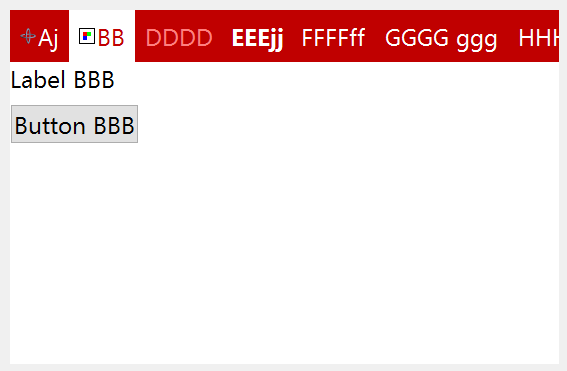
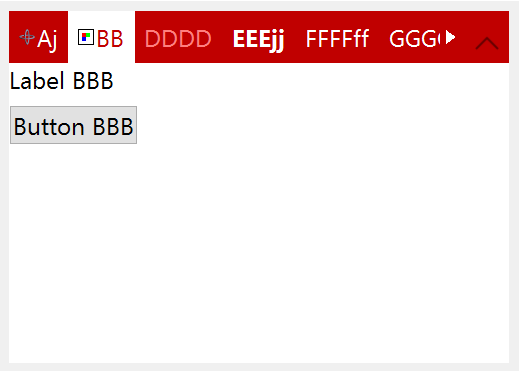
expand button final

Changed region(s): [[0.0, 0.0296, 0.9865, 0.2372], [0.0, 0.2668, 0.2775, 0.3854]]

diff --git a/html/en/elem/iupflattabs.html b/html/en/elem/iupflattabs.html
@@ -188,7 +188,7 @@ Just like the tabs they do not affect natural width. But they also don't affect
 the tabs title height, if button title or image are larger than the tabs title 
 height they will be cropped.</p>
 <p><strong>EXTRATITLE</strong><em><strong>id</strong></em>: text of the 
-respective button</p>
+respective button.</p>
 <p><strong>EXTRAACTIVE</strong><em><strong>id</strong></em>: active state of the 
 button. Can be Yes or No. When not defined works as &quot;Yes&quot;.</p>
 <p><strong>EXTRAFORECOLOR</strong><em><strong>id</strong></em>: text color of 
@@ -217,6 +217,15 @@ EXTRAIMAGE<em>id</em> when in inactive
 state. If not defined EXTRAIMAGE<em>id</em> is used and its colors will be 
 replaced by a modified version creating the disabled effect.</p>
 <p><strong>EXTRATIP<em>id</em></strong>: TIP of the button.</p>
+<h4>Expand Button Attributes (<font SIZE="3">non inheritable</font>) (since 3.22)</h4>
+<p><strong>EXPANDBUTTON</strong>: uses the next free extra button to configure 
+an expand button. The button allows to dynamically expand and collapse the tabs 
+contents. When collapsed a click on a tab causes that tab to be temporarily 
+expanded until it looses the focus.</p>
+<p><strong>EXPANDBUTTONPOS</strong> (read-only): position of the expand button 
+in the extra buttons.</p>
+<p><strong>EXPANDBUTTONSTATE</strong>: The expand button is on expand state. Can 
+be Yes or No. Default: Yes.</p>
 <h4>Current Tab (<font SIZE="3">non inheritable</font>)</h4>
 <p><strong>VALUE</strong>: Changes the 
 current tab by its name. The value passed must be the name of one of the elements 
@@ -389,16 +398,17 @@ IupSetAttribute(ih, &quot;TABACTIVE3&quot;, &quot;NO&quot;);
 IupSetAttribute(ih, &quot;SHOWCLOSE&quot;, &quot;Yes&quot;);
 IupSetAttribute(ih, &quot;TABFONTSTYLE4&quot;, &quot;Bold&quot;);</pre>
 <p class="auto-style2">
-<img height="421" src="images/iupflattabs1.png" width="582"></p>
+<img src="images/iupflattabs1.png"></p>
 <pre> IupSetAttribute(ih, &quot;FORECOLOR&quot;, &quot;192 0 0&quot;);
 IupSetAttribute(ih, &quot;TABSBACKCOLOR&quot;, &quot;192 0 0&quot;);
 IupSetAttribute(ih, &quot;HIGHCOLOR&quot;, &quot;255 128 128&quot;);
 IupSetAttribute(ih, &quot;CLOSEHIGHCOLOR&quot;, &quot;255 128 128&quot;);
 IupSetAttribute(ih, &quot;TABSFORECOLOR&quot;, &quot;255 255 255&quot;);
 IupSetAttribute(ih, &quot;SHOWLINES&quot;, &quot;NO&quot;);
-IupSetAttribute(ih, &quot;SHOWCLOSE&quot;, &quot;NO&quot;);</pre>
+IupSetAttribute(ih, &quot;SHOWCLOSE&quot;, &quot;NO&quot;);
+IupSetAttribute(ih, &quot;EXPANDBUTTON&quot;, &quot;Yes&quot;);</pre>
 <p class="auto-style2">
-<img height="371" src="images/iupflattabs2.png" width="567"></p>
+<img src="images/iupflattabs2.png"></p>
 
 </body>
 

diff --git a/html/en/history3.html b/html/en/history3.html
@@ -61,7 +61,7 @@
 <p>Check the <a href="migration_guide.html">Migration Guide</a> for a summary of 
 the important changes and how to proceed when migrating from version 2.x to 
 version 3.x.</p>
-<h3>SVN (17/May/2017)</h3>
+<h3>SVN (22/May/2017)</h3>
 
 <ul>
 
@@ -73,7 +73,7 @@ version 3.x.</p>
 	<li>
 	<font SIZE="3">
 	<b>
-	<span class="hist_new">New:</span> </b>TABCHANGEONCHECK, CLOSEPRESSCOLOR, CLOSEIMAGEINACTIVE, 
+	<span class="hist_new">New:</span> </b>EXTRABUTTONS, EXPANDBUTON, TABCHANGEONCHECK, CLOSEPRESSCOLOR, CLOSEIMAGEINACTIVE, 
 	TABTIPn, TABIMAGEHIGHTLIGHTn and TABIMAGEINACTIVEn attributes for
 	<b>
 	<strong>IupFlatTabs</strong></b>.</font></li>

diff --git a/src/iup_flattabs.c b/src/iup_flattabs.c
@@ -848,6 +848,7 @@ static void iFlatTabsToggleExpand(Ihandle* ih)
     iupAttribSetId(ih, "EXTRAIMAGE", expand_pos, "IupFlatExpandDown");
     iupAttribSet(ih, "EXPANDBUTTONSTATE", "No");
     IupSetStrf(ih, "MAXSIZE", "x%d", title_height);
+    iupAttribSetInt(ih, "_IUP_FULLHEIGHT", ih->currentheight);
     IupRefresh(ih);
   }
   else
@@ -855,8 +856,17 @@ static void iFlatTabsToggleExpand(Ihandle* ih)
     iupAttribSetId(ih, "EXTRAIMAGE", expand_pos, "IupFlatExpandUp");
     iupAttribSet(ih, "EXPANDBUTTONSTATE", "Yes");
     IupSetAttribute(ih, "MAXSIZE", NULL);
+    iupAttribSet(ih, "_IUP_FULLHEIGHT", NULL);
     IupRefresh(ih);
   }
+}
+
+static int iFlatTabsKillFocus_CB(Ihandle* ih)
+{
+  ih->currentheight = IupGetInt2(ih, "MAXSIZE");
+  iupLayoutUpdate(ih);
+  IupSetCallback(ih, "KILLFOCUS_CB", NULL);
+  return IUP_DEFAULT;
 }
 
 static int iFlatTabsButton_CB(Ihandle* ih, int button, int pressed, int x, int y, char* status)
@@ -893,6 +903,14 @@ static int iFlatTabsButton_CB(Ihandle* ih, int button, int pressed, int x, int y
           int ret = iFlatTabsCallTabChange(ih, prev_child, prev_pos, child);
           if (ret == IUP_DEFAULT)
             iFlatTabsSetCurrentTab(ih, child);
+        }
+
+        if (iupAttribGetBoolean(ih, "EXPANDBUTTON") && !iupAttribGetBoolean(ih, "EXPANDBUTTONSTATE"))
+        {
+          ih->currentheight = iupAttribGetInt(ih, "_IUP_FULLHEIGHT");
+          IupSetAttribute(ih, "ZORDER", "TOP");
+          iupLayoutUpdate(ih);
+          IupSetCallback(ih, "KILLFOCUS_CB", (Icallback)iFlatTabsKillFocus_CB);
         }
       }
     }
@@ -1778,7 +1796,6 @@ Iclass* iupFlatTabsNewClass(void)
   iupClassRegisterReplaceAttribDef(ic, "BORDER", "NO", NULL);
   iupClassRegisterReplaceAttribFlags(ic, "BORDER", IUPAF_READONLY | IUPAF_NO_INHERIT);
   iupClassRegisterReplaceAttribFlags(ic, "SCROLLBAR", IUPAF_READONLY | IUPAF_NO_INHERIT);
-  iupClassRegisterAttribute(ic, "CANFOCUS", NULL, NULL, IUPAF_SAMEASSYSTEM, "NO", IUPAF_NO_INHERIT);
 
   iupClassRegisterReplaceAttribFunc(ic, "ACTIVE", NULL, iFlatTabsSetActiveAttrib);
   iupClassRegisterAttribute(ic, "TIP", NULL, iFlatTabsSetTipAttrib, NULL, NULL, IUPAF_NO_DEFAULTVALUE | IUPAF_NO_INHERIT);

diff --git a/html/examples/tests/flattabs.c b/html/examples/tests/flattabs.c
@@ -453,9 +453,9 @@ static Ihandle* CreateTabs(int tab)
   //  IupSetAttribute(tabs, "EXTRATITLE3", "3");
 //  IupSetStrAttribute(tabs, "EXTRAIMAGE3", IupGetAttribute(tabs, "TABIMAGE1"));
 
-  IupSetAttribute(tabs, "EXPANDBUTTON", "Yes");
+//  IupSetAttribute(tabs, "EXPANDBUTTON", "Yes");
 
-  IupSetAttribute(tabs, "SHOWCLOSE", "yes");
+//  IupSetAttribute(tabs, "SHOWCLOSE", "yes");
 //  IupSetAttribute(tabs, "TABSPADDING", "10x50");
 //  IupSetAttribute(tabs, "TABSFONTSIZE", "36");
 
